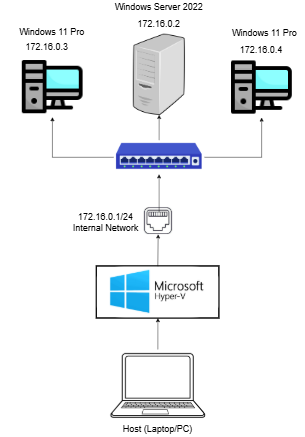
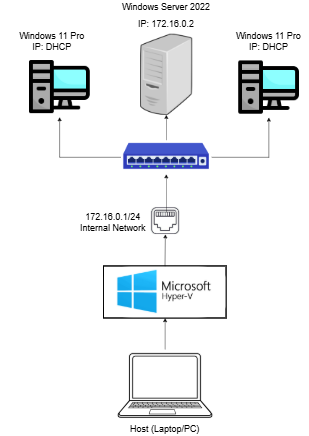
Update documentation with DHCP configuration

Changed region(s): [[0.059, 0.0596, 0.8557, 1.0], [0.3541, 0.0, 0.6787, 0.328], [0.7377, 0.0596, 0.9738, 0.3578]]

diff --git a/README.md b/README.md
@@ -61,7 +61,7 @@ This homelab project demonstrates the design and implementation of an Active Dir
 - **vCPU:** 4 cores
 - **Storage:** 60 GB virtual disk
 - **Network:** Hyper-V Internal Switch
-- **IP Address:** 172.16.0.4/24 (Static, no gateway)
+- **IP Address Range:** 172.16.0.100 - 172.16.0.200 (Dynamic - DHCP, no gateway)
 
 #### Client Workstation VM #2 (Windows 11 Pro)
 - **Hostname:** WIN11-CLI-02
@@ -70,17 +70,20 @@ This homelab project demonstrates the design and implementation of an Active Dir
 - **vCPU:** 4 cores
 - **Storage:** 60 GB virtual disk
 - **Network:** Hyper-V Internal Switch
-- **IP Address:** 172.16.0.3/24 (Static, no gateway)
+- **IP Address Range:** 172.16.0.100 - 172.16.0.200 (Dynamic - DHCP, no gateway)
 
 ### Server Roles & Services
 
 The Domain Controller hosts multiple roles:
 - **Active Directory Domain Services (AD DS)** - Directory services and domain management
 - **DNS Server** - Name resolution for the domain
+- **DHCP Server** - Dynamic IP addressing
 - **File and Storage Services** - Shared folders and file permissions
 - **Group Policy Management** - Centralized policy deployment
 
 ---
+
+**Important Update:** Later added the DHCP role and configured DHCP scope. Not included in steps below.
 
 ## Installation & Configuration
 
